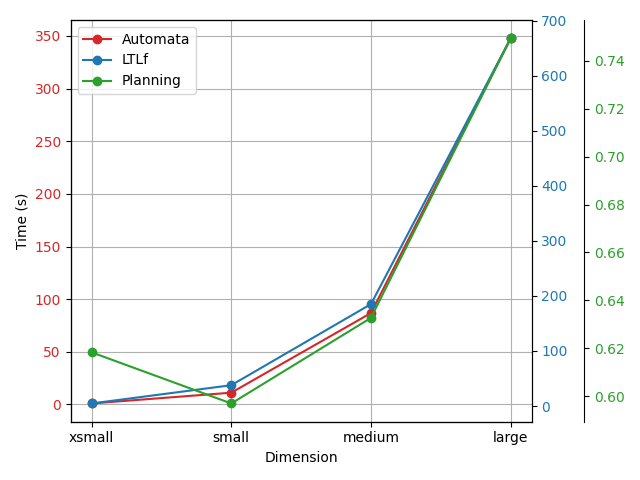
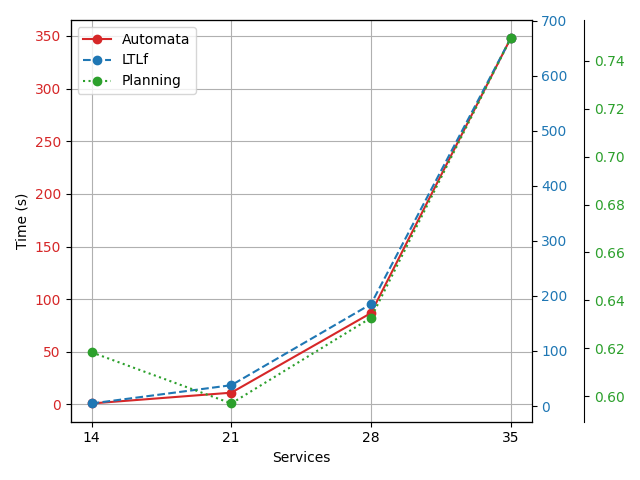
colors and linestyle

diff --git a/cum_exp/plot_results.py b/cum_exp/plot_results.py
@@ -11,8 +11,11 @@ if __name__ == "__main__":
     moded = ["mdp", "plan"]
     modes_mdp = ["automata", "ltlf"]
     dimensions = ["xsmall", "small", "medium", "large"]
-    dimensions_num = [0, 10, 20, 30]
+    services = [14, 21, 28, 35]
     case_study = "chip"
+
+    line_styles_mem = ['solid', 'dashed', 'dotted']
+    line_styles_tim = ['solid', 'dashed', 'dotted']
     
     mems = {'automata': [], 'ltlf': [], 'plan': []}
     times_comp = {'automata': [], 'ltlf': [], 'plan': []}
@@ -33,22 +36,24 @@ if __name__ == "__main__":
     ax1 = fig.add_subplot(111)
 
     color = 'tab:red'
-    lns1 = ax1.plot(dimensions_num, mems['automata'], '-o', color=color, label='Automata')
-    ax1.set_xticks(dimensions_num, dimensions)
-    ax1.set_xlabel('Dimension')
+    lns1 = ax1.plot(services, mems['automata'], '-o', color=color, label='Automata', linestyle=line_styles_mem[0])
+    ax1.set_xticks(services)
+    ax1.set_xlabel('Services')
     ax1.set_ylabel('Memory (MiB)')
     ax1.tick_params(axis='y', labelcolor=color)
 
     color = 'tab:blue'
     ax2 = ax1.twinx()  # instantiate a second axes that shares the same x-axis
-    lns2 = ax2.plot(dimensions_num, mems['ltlf'], '-o', color=color, label='LTLf')
+    lns2 = ax2.plot(services, mems['ltlf'], '-o', color=color, label='LTLf', linestyle=line_styles_mem[1])
     ax2.set_ylabel('')
     ax2.tick_params(axis='y', labelcolor=color)
 
     color = 'tab:green'
     ax3 = ax1.twinx()
     ax3.spines['right'].set_position(('outward', 38))  # Move the third axis outward
-    lns3 = ax3.plot(dimensions_num, mems['plan'], '-o', color=color, label='Planning')
+    lns3 = ax3.plot(services, mems['plan'], '-o', color=color, label='Planning', linestyle=line_styles_mem[2])
+    #set y axis values
+    ax3.set_yticks(list(range(24, 34, 2)))
     ax3.set_ylabel('')
     ax3.tick_params(axis='y', labelcolor=color)
 
@@ -59,7 +64,6 @@ if __name__ == "__main__":
     fig.tight_layout()  # otherwise the right y-label is slightly clipped
     plt.savefig(f'mem_usage_{case_study}.png')
     plt.show(block=False)
-
 
 
     time_comp_automata = times_comp['automata']
@@ -75,22 +79,22 @@ if __name__ == "__main__":
     ax1 = fig.add_subplot(111)
 
     color = 'tab:red'
-    lns1 = ax1.plot(dimensions_num, tot_time_automata, '-o', color=color, label='Automata')
-    ax1.set_xticks(dimensions_num, dimensions)
-    ax1.set_xlabel('Dimension')
+    lns1 = ax1.plot(services, tot_time_automata, '-o', color=color, label='Automata', linestyle=line_styles_tim[0])
+    ax1.set_xticks(services)
+    ax1.set_xlabel('Services')
     ax1.set_ylabel('Time (s)')
     ax1.tick_params(axis='y', labelcolor=color)
 
     color = 'tab:blue'
     ax2 = ax1.twinx()  # instantiate a second axes that shares the same x-axis
-    lns2 = ax2.plot(dimensions_num, tot_time_ltlf, '-o', color=color, label='LTLf')
+    lns2 = ax2.plot(services, tot_time_ltlf, '-o', color=color, label='LTLf', linestyle=line_styles_tim[1])
     ax2.set_ylabel('')
     ax2.tick_params(axis='y', labelcolor=color)
 
     color = 'tab:green'
     ax3 = ax1.twinx()
     ax3.spines['right'].set_position(('outward', 38))  # Move the third axis outward
-    lns3 = ax3.plot(dimensions_num, times_comp['plan'], '-o', color=color, label='Planning')
+    lns3 = ax3.plot(services, times_comp['plan'], '-o', color=color, label='Planning', linestyle=line_styles_tim[2])
     ax3.set_ylabel('')
     ax3.tick_params(axis='y', labelcolor=color)
 
